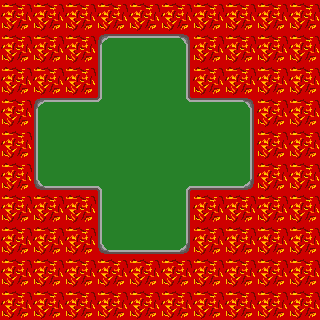
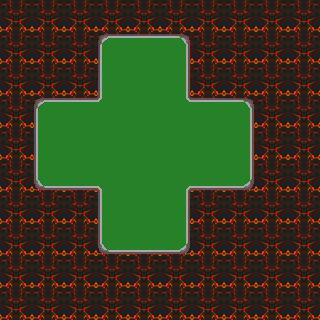
Less eye-abusive lava...
Whiners...

diff --git a/core/src/edu/chl/KeyboardChaos/controll/gamestates/BattleState.java b/core/src/edu/chl/KeyboardChaos/controll/gamestates/BattleState.java
@@ -49,7 +49,7 @@ public class BattleState implements GameState {
 		//Map stuff
 		tileMap = new TmxMapLoader().load("assets/maps/map1.tmx");
 		MapBodyManager mbm = new MapBodyManager(world, KCConstants.PPM, null, 0);
-		mbm.createPhysics(tileMap, "lavahurts");
+		mbm.createPhysics(tileMap, "lava");
 		
 		mapFixtures = new Array<Fixture>();
 		battleView = new BattleView(mapFixtures, world, tileMap);
